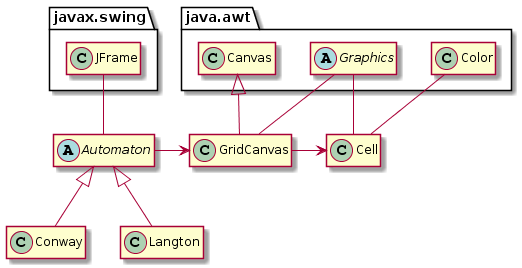
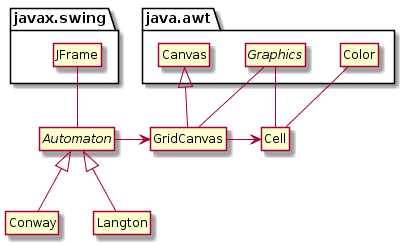
redraw ch14 UML diagram

Changed region(s): [[0.0, 0.0, 1.0, 1.0], [0.0, 0.8033, 0.1787, 1.0]]

diff --git a/ch14.tex b/ch14.tex
@@ -685,18 +685,16 @@ The latter two sections are optional when showing relationships.
 % a simplified version for all HAS-A relationships.  This is consistent
 % with the class diagrams in Head First Design Patterns.
 
-Relationships between classes are represented by arrows: composition arrows have a standard arrow head, and inheritance arrows have a hollow triangle head (usually pointing up).
-Figure~\ref{fig.uml1} shows the classes defined in this chapter and the relationships among them.
-
-%TODO Blythe suggests picture of each arrow, but it's a pain.
-
 \begin{figure}[!ht]
 \begin{center}
-\includegraphics[width=0.75\textwidth]{figs/uml1.pdf}
+\includegraphics[width=0.75\textwidth]{figs/uml1.png}
 \caption{UML diagram for the classes in this chapter.}
 \label{fig.uml1}
 \end{center}
 \end{figure}
+
+Relationships between classes are represented by arrows: composition arrows have a standard arrow head, and inheritance arrows have a hollow triangle head (usually pointing up).
+Figure~\ref{fig.uml1} shows the classes defined in this chapter and the relationships among them.
 
 UML is an international standard, so almost any software engineer in the world could look at this diagram and understand our design.
 And class diagrams are only one of many graphical representations defined in the UML standard.

diff --git a/ch15b.tex b/ch15b.tex
@@ -253,7 +253,7 @@ Figure~\ref{fig:uml2} summarizes the final design.
 
 \begin{figure}[!ht]
 \begin{center}
-\includegraphics[width=0.9\textwidth]{figs/uml2.png}
+\includegraphics[width=0.75\textwidth]{figs/uml2.png}
 \caption{UML class diagram of \java{Conway} and \java{Langton} applications.}
 \label{fig:uml2}
 \end{center}
@@ -265,9 +265,9 @@ Figure~\ref{fig:uml2} summarizes the final design.
 The diagram shows three examples of inheritance: \java{Conway} is an \java{Automaton}, \java{Langton} is an \java{Automaton}, and \java{GridCanvas} is a Canvas.
 It also shows two examples of composition: \java{Automaton} has a \java{GridCanvas}, and \java{GridCanvas} has a 2D-array of \java{Cell}s.
 
-Interestingly, \java{Graphics} is an abstract class.
+\java{Graphics} is an abstract class too, as shown in italics.
 According to the documentation, its design ``allows an application to draw onto components that are realized on various devices, as well as onto off-screen images.''
-That's the beauty of abstraction; our code will work regardless how and where it's drawn.
+That's the beauty of abstraction; our code works regardless how and where it's drawn.
 
 
 \section{Vocabulary}
